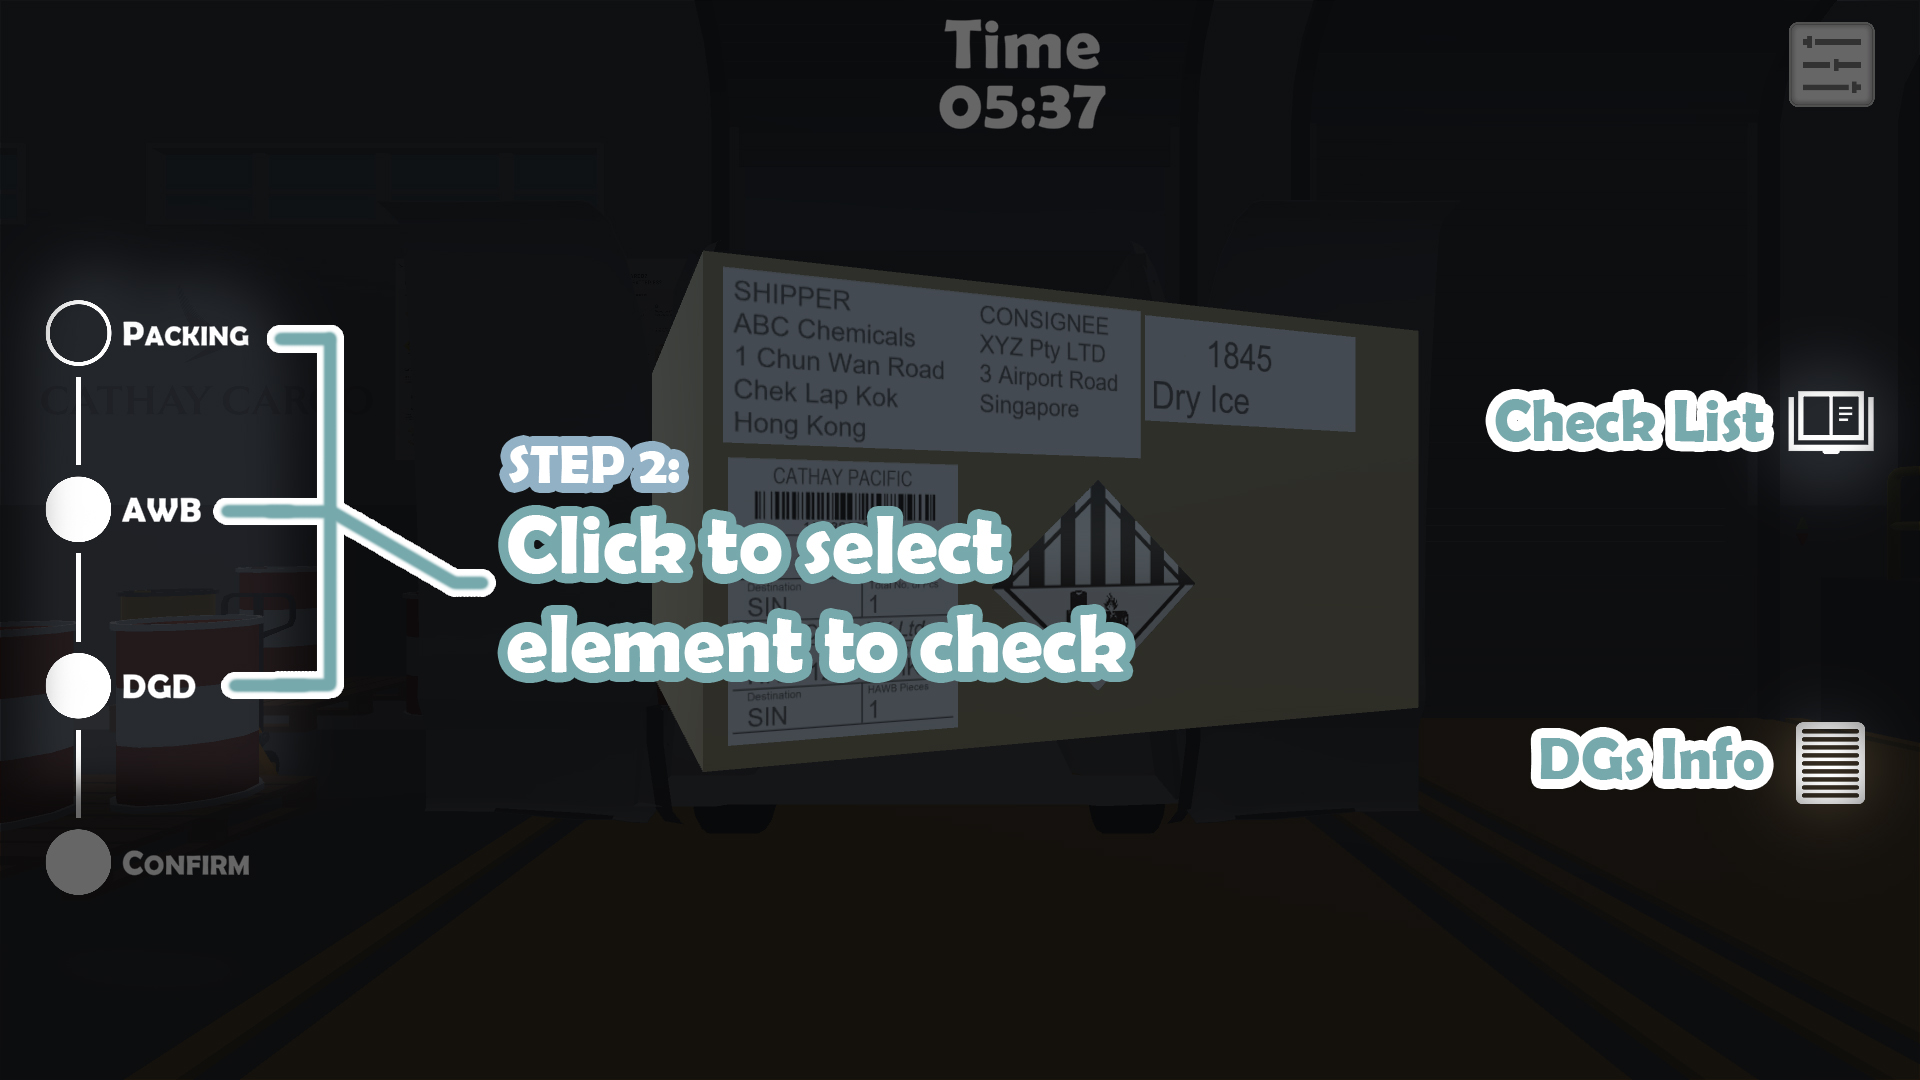
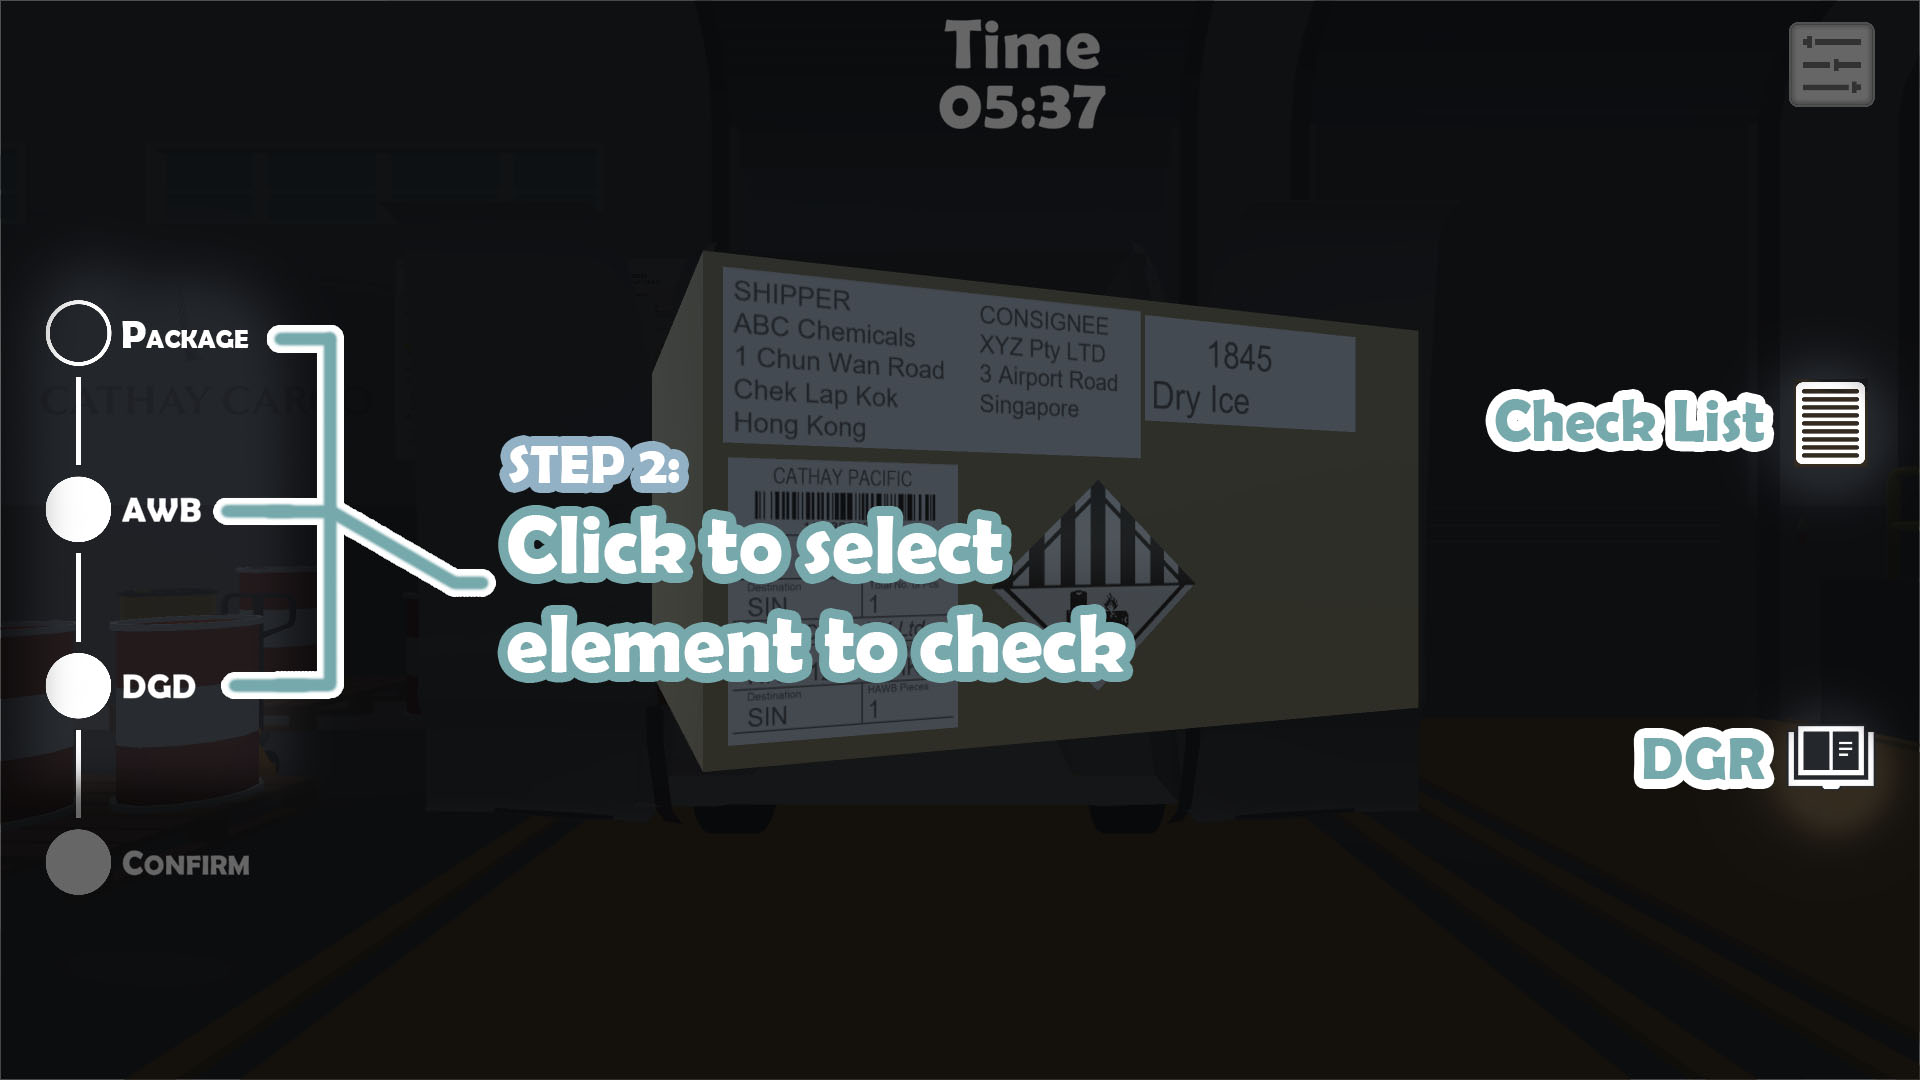
(1)make view package brighter (2)can change page when checklist shown (3)Update How to play image

Changed region(s): [[0.7812, 0.6417, 1.0, 0.7639], [0.9062, 0.3361, 1.0, 0.4278], [0.0625, 0.3056, 0.125, 0.3361]]

diff --git a/Assets/_TESTING/Script/StaticObjOrVar.cs b/Assets/_TESTING/Script/StaticObjOrVar.cs
@@ -16,11 +16,16 @@ public class StaticObjOrVar : MonoBehaviour
 
     [SerializeField] Button[] rejReasonBtns;
 
+    [SerializeField]
+    //StepBtnGroupManager stepBtnGroupManager;
+
     public static GameObject ICONBTN;
-    int pageNum = 1;
+    public int pageNum = 1;
     public bool InProcedure5 = false;
     public static GameObject selectedObj;
     int timerHave = 0;
+
+    public bool confirmedAns;
 
     // Start is called before the first frame update
     void Start()
@@ -117,35 +122,54 @@ public class StaticObjOrVar : MonoBehaviour
             NewGameUI[x].enabled = true;
             ProcedureIcons[x - 1].sprite = Resources.LoadAll<Sprite>("Steps/Icons")[2];
             pageNum = x;
-        }
-        else
-        {
+            NewGameUI[6].enabled = false;
 
-            if (x == 4)
+            if (pageNum == 4)
             {
-                NewGameUI[pageNum].enabled = false;
-                ProcedureIcons[pageNum - 1].sprite = Resources.LoadAll<Sprite>("Steps/Icons")[1];
-                NewGameUI[x + 1].enabled = true;
-                ProcedureIcons[x - 1].sprite = Resources.LoadAll<Sprite>("Steps/Icons")[2];
-                pageNum = x + 1;
+                if (confirmedAns)
+                {
+                    NewGameUI[4].enabled = false;
+                    NewGameUI[6].enabled = true;
+                }
+                else
+                {
+                    NewGameUI[4].enabled = true;
+                    NewGameUI[6].enabled = false;
+                }
             }
-            else if (pageNum == 5)
-            {
-                NewGameUI[pageNum].enabled = false;
-                ProcedureIcons[pageNum - 2].sprite = Resources.LoadAll<Sprite>("Steps/Icons")[1];
-                NewGameUI[x].enabled = true;
-                ProcedureIcons[x - 1].sprite = Resources.LoadAll<Sprite>("Steps/Icons")[2];
-                pageNum = x;
-            }
+                
+        }
             else
             {
-                NewGameUI[pageNum].enabled = false;
-                ProcedureIcons[pageNum - 1].sprite = Resources.LoadAll<Sprite>("Steps/Icons")[1];
-                NewGameUI[x].enabled = true;
-                ProcedureIcons[x - 1].sprite = Resources.LoadAll<Sprite>("Steps/Icons")[2];
-                pageNum = x;
+
+                if (x == 4)
+                {
+
+                    NewGameUI[pageNum].enabled = false;
+                    ProcedureIcons[pageNum - 1].sprite = Resources.LoadAll<Sprite>("Steps/Icons")[1];
+                    NewGameUI[x + 1].enabled = true;
+                    ProcedureIcons[x - 1].sprite = Resources.LoadAll<Sprite>("Steps/Icons")[2];
+                    pageNum = x + 1;
+
+
+                }
+                else if (pageNum == 5)
+                {
+                    NewGameUI[pageNum].enabled = false;
+                    ProcedureIcons[pageNum - 2].sprite = Resources.LoadAll<Sprite>("Steps/Icons")[1];
+                    NewGameUI[x].enabled = true;
+                    ProcedureIcons[x - 1].sprite = Resources.LoadAll<Sprite>("Steps/Icons")[2];
+                    pageNum = x;
+                }
+                else
+                {
+                    NewGameUI[pageNum].enabled = false;
+                    ProcedureIcons[pageNum - 1].sprite = Resources.LoadAll<Sprite>("Steps/Icons")[1];
+                    NewGameUI[x].enabled = true;
+                    ProcedureIcons[x - 1].sprite = Resources.LoadAll<Sprite>("Steps/Icons")[2];
+                    pageNum = x;
+                }
             }
-        }
 
         if (x == 1) {//check if on package check page and allow rotate obj
             boxescontroller.ClickedBox.GetComponent<Rotate3DObject1>().pause = false;
@@ -167,24 +191,36 @@ public class StaticObjOrVar : MonoBehaviour
         NewGameUI[pageNum].enabled = false;
         NewGameUI[6].enabled = true;
         boxescontroller.checkAns();
-        NewGameUI[0].transform.Find("Steps").GetComponent<CanvasGroup>().interactable = false;
-        ProcedureIcons[0].sprite = Resources.LoadAll<Sprite>("Steps/Icons")[2];
-        ProcedureIcons[3].sprite = Resources.LoadAll<Sprite>("Steps/Icons")[1];
+        //NewGameUI[0].transform.Find("Steps").GetComponent<CanvasGroup>().interactable = false;
+        //ProcedureIcons[0].sprite = Resources.LoadAll<Sprite>("Steps/Icons")[2];
+        //ProcedureIcons[3].sprite = Resources.LoadAll<Sprite>("Steps/Icons")[1];
         InProcedure5 = false;
-        pageNum = 1;
+       // pageNum = 1;
         for (int x = 0; x < 3; x++)
         {
             reasons[x].enabled = false;
         }
 
         timer.setTimerStop(true); //time stop show checklist
+        setIsConfirmedAns(true);
+    }
+
+    public void iniStaticObjVar()
+    {
+        pageNum = 1;
+        setIsConfirmedAns(false);
+    }
+    
+    public void setIsConfirmedAns(bool input)
+    {
+        confirmedAns = input;
     }
     public void packagebtn()
     {
         reasons[0].enabled = true;
         reasons[1].enabled = false;
         reasons[2].enabled = false;
-        
+
     }
     public void AWBbtn()
     {
@@ -232,11 +268,13 @@ public class StaticObjOrVar : MonoBehaviour
     public void openMenu()
     {
         //To avoid people can click these when pausing
-        NewGameUI[0].enabled = false;
+        //NewGameUI[0].enabled = false;
         //
         Menu.enabled = true;
         timer.setTimerStop(true);
-        boxescontroller.ClickedBox.GetComponent<Rotate3DObject1>().pause = true;
+        if (boxescontroller.ClickedBox!=null) {
+            boxescontroller.ClickedBox.GetComponent<Rotate3DObject1>().pause = true;
+        }
         StartCoroutine(moveMenu());
     }
     IEnumerator moveMenu()

diff --git a/Assets/_TESTING/Script/StepBtnGroupManager.cs b/Assets/_TESTING/Script/StepBtnGroupManager.cs
@@ -8,6 +8,8 @@ public class StepBtnGroupManager : MonoBehaviour
 {
     //control steps btns interactable
     public Button[] btns;
+    public Image[] btnIcons;
+
     // Start is called before the first frame update
     /*void Start()
     {
@@ -26,9 +28,20 @@ public class StepBtnGroupManager : MonoBehaviour
         btn.interactable = false;
     }
 
-    public void iniBtns() {
-        foreach (Button btn in btns) {
+    public void iniBtns()
+    {
+        foreach (Button btn in btns)
+        {
             btn.interactable = true;
         }
+        
+    }
+
+    public void iniBtnImg()
+    {
+        btnIcons[0].sprite = Resources.LoadAll<Sprite>("Steps/Icons")[2];
+        btnIcons[1].sprite = Resources.LoadAll<Sprite>("Steps/Icons")[1];
+        btnIcons[2].sprite = Resources.LoadAll<Sprite>("Steps/Icons")[1];
+        btnIcons[3].sprite = Resources.LoadAll<Sprite>("Steps/Icons")[1];
     }
 }

diff --git a/Assets/_TESTING/Script/MenuScript.cs b/Assets/_TESTING/Script/MenuScript.cs
@@ -43,8 +43,11 @@ public class MenuScript : MonoBehaviour
     { 
         this.gameObject.GetComponent<Canvas>().enabled = false;
         timer.setTimerStop(false);
-        boxescontroller.ClickedBox.GetComponent<Rotate3DObject1>().pause = false;
-        StaticObjOrVar.NewGameUI[0].enabled = true;
+        if (boxescontroller.ClickedBox != null)
+        {
+            boxescontroller.ClickedBox.GetComponent<Rotate3DObject1>().pause = false;
+        }
+        //StaticObjOrVar.NewGameUI[0].enabled = true;
     }
     public void clickHowToPlay()
     { 
